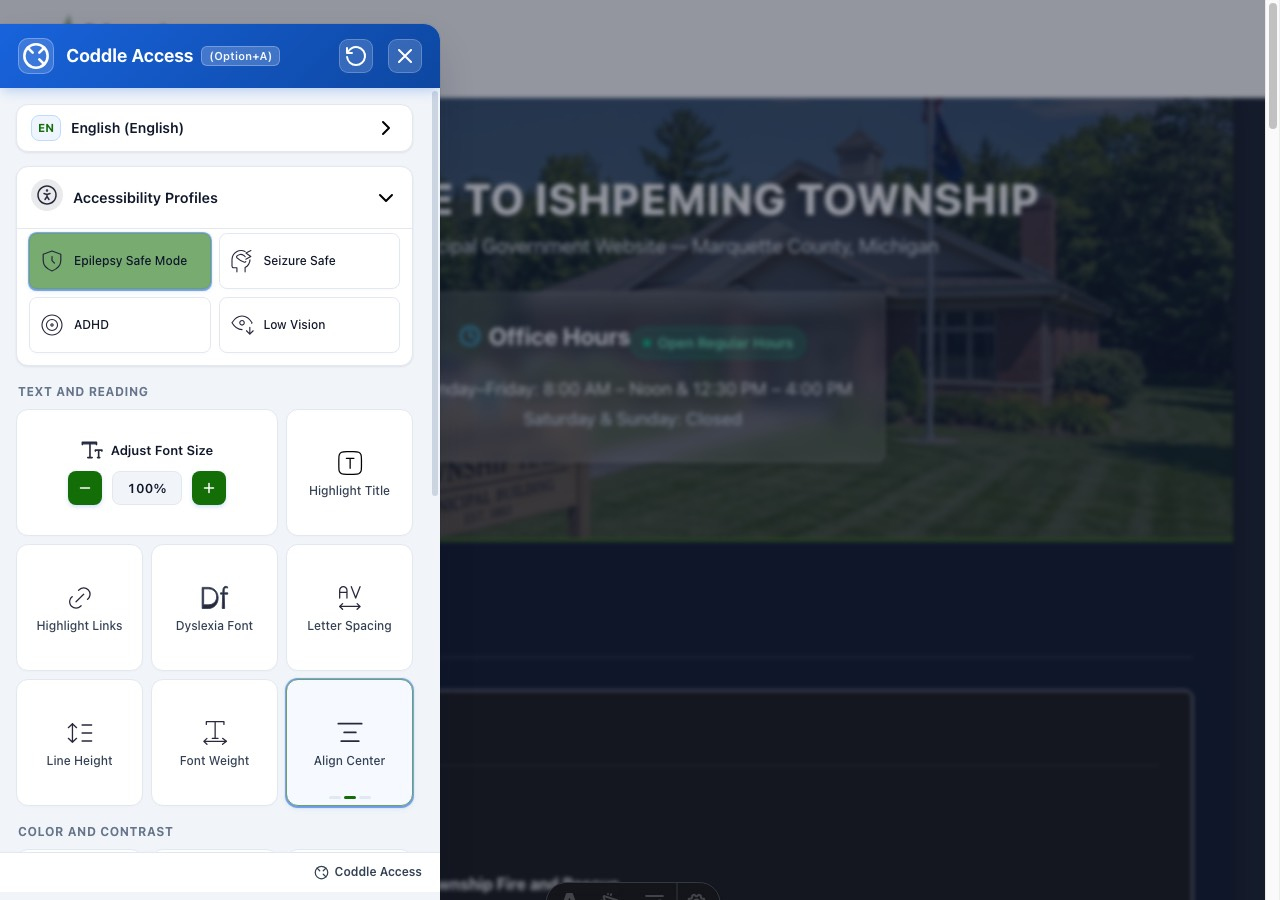
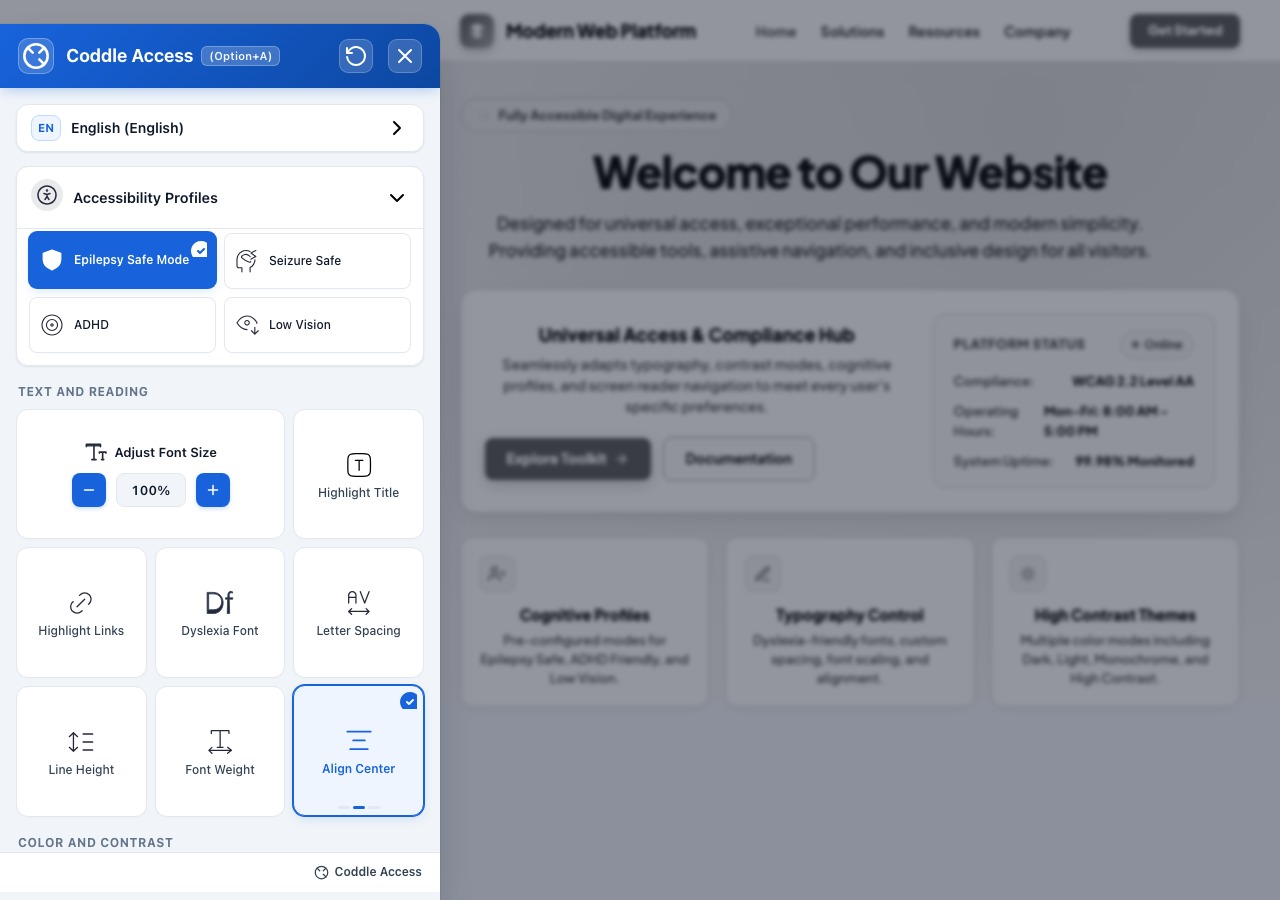
chore: release 1.2.1 with updated neutral marketplace screenshot

diff --git a/README.md b/README.md
@@ -4,7 +4,7 @@
 
 [![EmDash Plugin](https://img.shields.io/badge/EmDash-Plugin-blue.svg)](https://emdashcms.com)
 [![License: MIT](https://img.shields.io/badge/License-MIT-green.svg)](LICENSE)
-[![Version: 1.2.0](https://img.shields.io/badge/Version-1.2.0-indigo.svg)](CHANGELOG.md)
+[![Version: 1.2.1](https://img.shields.io/badge/Version-1.2.1-indigo.svg)](CHANGELOG.md)
 
 ---
 

diff --git a/CHANGELOG.md b/CHANGELOG.md
@@ -2,6 +2,11 @@
 
 All notable changes to the Coddle Access accessibility widget will be documented in this file.
 
+## [1.2.1] - 2026-10-14
+
+### Changed
+- Replaced public marketplace listing screenshot with a clean, neutral demonstration showcase.
+
 ## [1.2.0] - 2026-10-13
 
 ### Added
